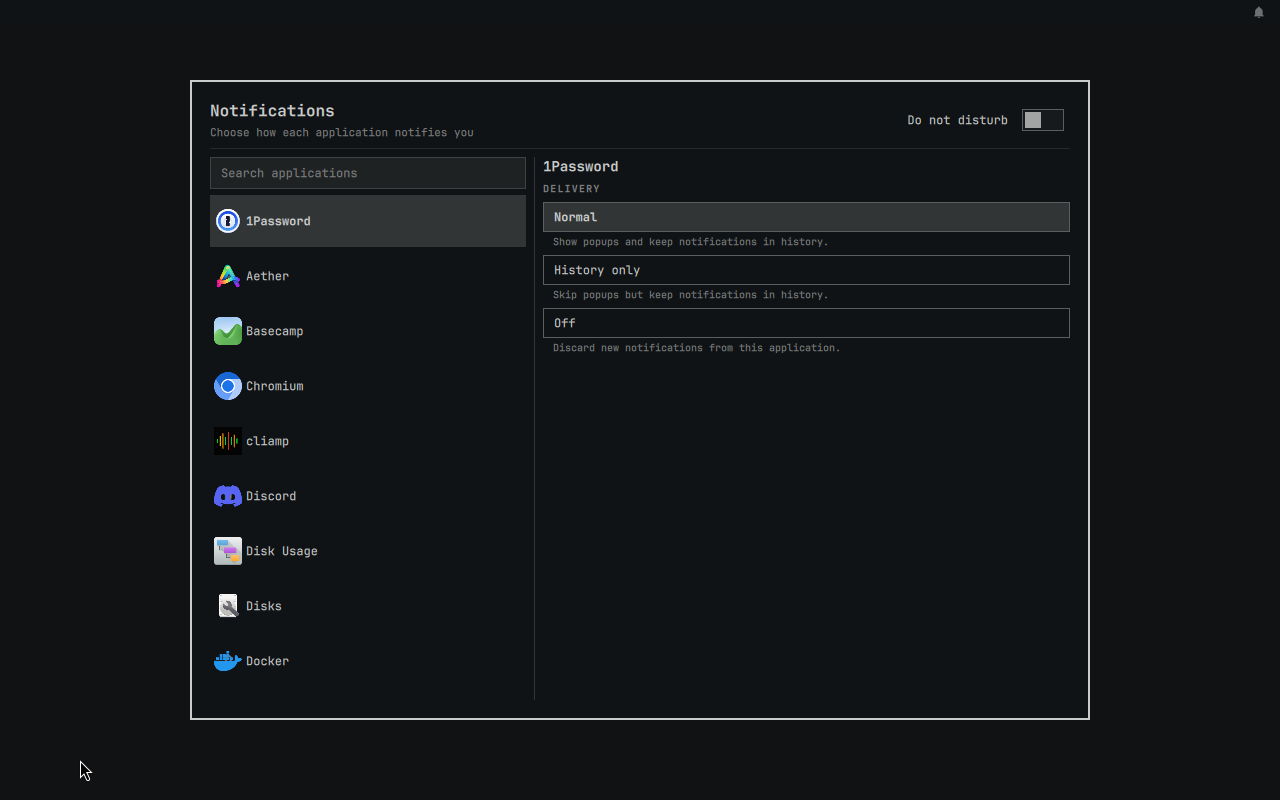
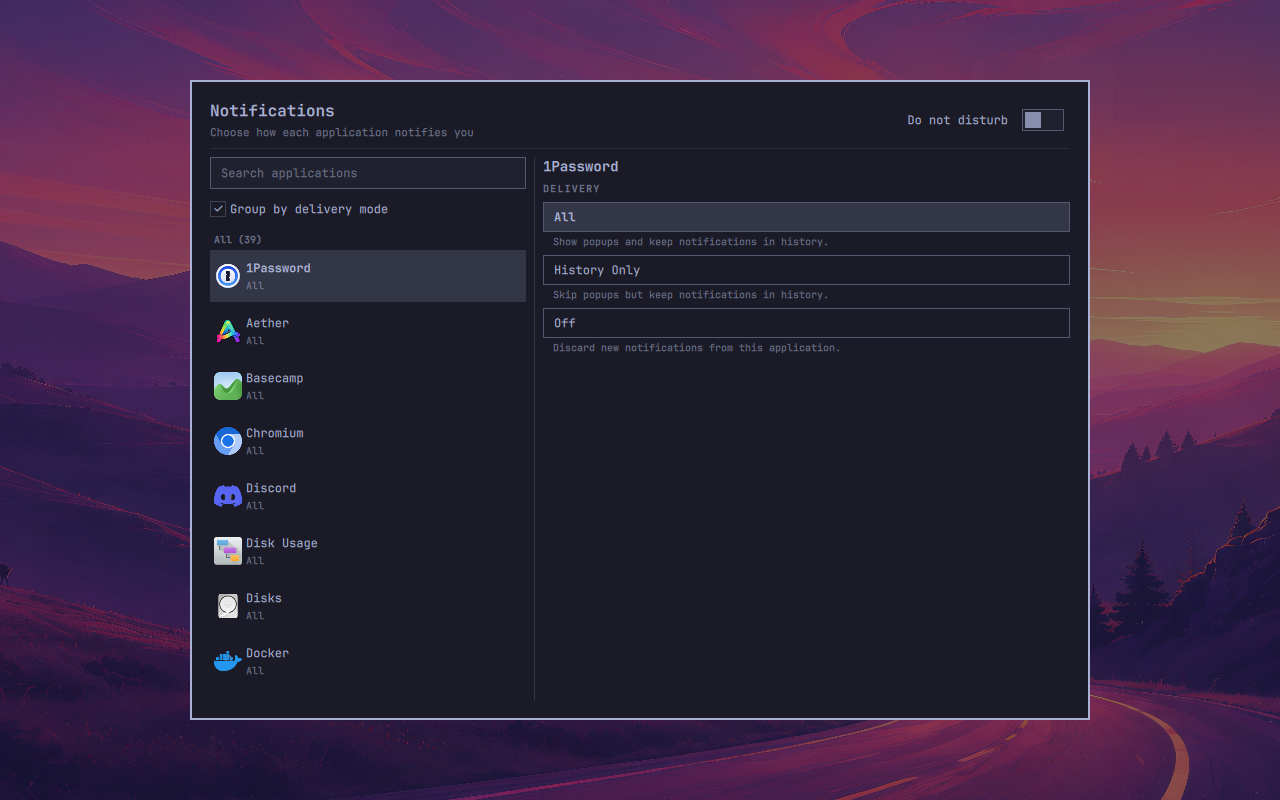
Add delivery-mode grouping and refresh notification controls preview

diff --git a/Panel.qml b/Panel.qml
@@ -22,6 +22,12 @@ Item {
   readonly property bool catalogLoaded: !!root.service && root.service.catalogLoaded === true
   readonly property bool settingsWritable: root.settingsLoaded && root.service.settingsWritable !== false
 
+  PersistentProperties {
+    id: viewOptions
+    reloadableId: "hotwheels-notification-controls-view"
+    property bool groupByMode: false
+  }
+
   readonly property color background: Color.menu.background
   readonly property color foreground: Color.menu.text
   readonly property color dimForeground: Util.alpha(foreground, 0.58)
@@ -32,15 +38,18 @@ Item {
   readonly property var applications: service && typeof service.applicationsList === "function" ? service.applicationsList() : []
   readonly property var filteredApplications: {
     var query = searchText.trim().toLowerCase()
-    if (!query) return applications
-
     var matches = []
     for (var i = 0; i < applications.length; i++) {
       var application = applications[i]
       var haystack = [application.label, application.app, application.desktopEntry, application.source, application.searchText].join(" ").toLowerCase()
-      if (haystack.indexOf(query) >= 0) matches.push(application)
+      if (!query || haystack.indexOf(query) >= 0) matches.push(application)
     }
-    return matches
+    var grouped = viewOptions.groupByMode
+    var modes = ["normal", "history", "off", "mixed"]
+    return matches.sort(function(a, b) {
+      if (grouped && a.mode !== b.mode) return modes.indexOf(a.mode) - modes.indexOf(b.mode)
+      return a.label.toLowerCase().localeCompare(b.label.toLowerCase()) || a.key.localeCompare(b.key)
+    })
   }
   readonly property var selectedApplication: {
     for (var i = 0; i < filteredApplications.length; i++)
@@ -54,7 +63,7 @@ Item {
     root.opened = true
     if (root.service) root.service.rebuildApplicationCatalog()
     root.searchText = ""
-    root.selectedKey = root.applications.length > 0 ? String(root.applications[0].key) : ""
+    root.ensureSelection()
     Qt.callLater(function() {
       if (root.opened) searchField.forceActiveFocus()
     })
@@ -77,8 +86,9 @@ Item {
       root.selectedKey = ""
       return
     }
-    if (!root.selectedApplication)
-      root.selectedKey = String(root.filteredApplications[0].key)
+    for (var i = 0; i < root.filteredApplications.length; i++)
+      if (String(root.filteredApplications[i].key) === root.selectedKey) return
+    root.selectedKey = String(root.filteredApplications[0].key)
   }
 
   function setMode(mode) {
@@ -104,8 +114,32 @@ Item {
     return ""
   }
 
-  onApplicationsChanged: ensureSelection()
-  onFilteredApplicationsChanged: ensureSelection()
+  function modeLabel(mode) {
+    switch (mode) {
+    case "history": return "History Only"
+    case "off": return "Off"
+    case "mixed": return "Mixed settings"
+    default: return "All"
+    }
+  }
+
+  function groupCount(mode) {
+    return filteredApplications.filter(function(application) { return application.mode === mode }).length
+  }
+
+  ListModel { id: applicationModel }
+
+  onFilteredApplicationsChanged: {
+    // Named model roles let ListView render delivery-mode section headers.
+    applicationModel.clear()
+    for (var i = 0; i < filteredApplications.length; i++)
+      applicationModel.append(filteredApplications[i])
+    ensureSelection()
+    Qt.callLater(function() {
+      if (applicationList.currentIndex >= 0)
+        applicationList.positionViewAtIndex(applicationList.currentIndex, ListView.Contain)
+    })
+  }
 
   PanelWindow {
     id: panel
@@ -266,6 +300,43 @@ Item {
                 onTextChanged: root.searchText = text
               }
 
+              CheckBox {
+                id: groupingCheckBox
+                Layout.fillWidth: true
+                text: "Group by delivery mode"
+                checked: viewOptions.groupByMode
+                onToggled: viewOptions.groupByMode = checked
+                spacing: Style.spacing.sm
+                padding: 0
+                implicitHeight: Style.spacing.controlHeight
+
+                indicator: BorderSurface {
+                  implicitWidth: Style.space(16)
+                  implicitHeight: Style.space(16)
+                  y: (groupingCheckBox.height - height) / 2
+                  color: "transparent"
+                  borderSpec: Border.controlSpec(groupingCheckBox.activeFocus ? "focus" : (groupingCheckBox.hovered ? "hover-cursor" : "normal"), root.foreground, Color.accent)
+
+                  Text {
+                    anchors.centerIn: parent
+                    text: "✓"
+                    visible: groupingCheckBox.checked
+                    color: root.foreground
+                    font.pixelSize: Style.font.body
+                  }
+                }
+
+                contentItem: Text {
+                  text: groupingCheckBox.text
+                  leftPadding: groupingCheckBox.indicator.width + groupingCheckBox.spacing
+                  color: root.foreground
+                  font.family: Style.font.menuFamily
+                  font.pixelSize: Style.font.body
+                  verticalAlignment: Text.AlignVCenter
+                  elide: Text.ElideRight
+                }
+              }
+
               ListView {
                 id: applicationList
                 Layout.fillWidth: true
@@ -273,7 +344,7 @@ Item {
                 clip: true
                 spacing: Style.spacing.xs
                 boundsBehavior: Flickable.StopAtBounds
-                model: root.filteredApplications
+                model: applicationModel
                 currentIndex: {
                   for (var i = 0; i < root.filteredApplications.length; i++)
                     if (String(root.filteredApplications[i].key) === root.selectedKey) return i
@@ -282,12 +353,31 @@ Item {
                 onCurrentIndexChanged: if (currentIndex >= 0) positionViewAtIndex(currentIndex, ListView.Contain)
                 ScrollBar.vertical: ScrollBar { policy: ScrollBar.AsNeeded }
 
+                section.property: viewOptions.groupByMode ? "mode" : ""
+                section.criteria: ViewSection.FullString
+                section.delegate: Text {
+                  id: groupHeader
+                  required property string section
+                  width: ListView.view.width
+                  topPadding: Style.spacing.sm
+                  bottomPadding: Style.spacing.xs
+                  leftPadding: Style.spacing.sm
+                  textFormat: Text.PlainText
+                  text: root.modeLabel(groupHeader.section) + " (" + root.groupCount(groupHeader.section) + ")"
+                  color: root.dimForeground
+                  font.family: Style.font.menuFamily
+                  font.pixelSize: Style.font.caption
+                  font.bold: true
+                  elide: Text.ElideRight
+                }
+
                 delegate: CursorSurface {
                   id: applicationRow
-                  required property var modelData
+                  required property var model
+                  readonly property var modelData: model
                   required property int index
                   readonly property bool chosen: String(modelData.key) === root.selectedKey
-                  readonly property string subtitle: root.applicationSubtitle(modelData)
+                  readonly property string subtitle: root.modeLabel(modelData.mode)
 
                   width: ListView.view.width
                   implicitHeight: Math.max(Style.space(52), rowContent.implicitHeight + Style.spacing.md)
@@ -458,8 +548,8 @@ Item {
 
               Repeater {
                 model: [
-                  { value: "normal", label: "Normal", description: "Show popups and keep notifications in history." },
-                  { value: "history", label: "History only", description: "Skip popups but keep notifications in history." },
+                  { value: "normal", label: "All", description: "Show popups and keep notifications in history." },
+                  { value: "history", label: "History Only", description: "Skip popups but keep notifications in history." },
                   { value: "off", label: "Off", description: "Discard new notifications from this application." }
                 ]
 

diff --git a/README.md b/README.md
@@ -4,8 +4,8 @@ Choose how each application notifies you in Omarchy.
 
 Notification Controls puts the apps from your application launcher in one searchable list, with their familiar names and icons. Select an app and choose how its notifications are delivered:
 
-- **Normal** — show popups and keep notification history.
-- **History only** — keep notifications in history without interrupting you.
+- **All** — show popups and keep notification history.
+- **History Only** — keep notifications in history without interrupting you.
 - **Off** — discard new notifications from the app.
 
 Installed web apps have their own controls. Related background helpers follow their app's setting without cluttering the list.
@@ -29,6 +29,8 @@ omarchy bar move hotwheels.notification-controls --before omarchy.tray
 ## Open notification settings
 
 **Left-click the bell** in the top bar to open settings. **Right-click the bell** to toggle Do Not Disturb. The bell changes to a muted icon when DND is on.
+
+Check **Group by delivery mode** to organize applications into All, History Only, and Off sections, with a count for each group. Names stay alphabetical within each group. Search works with grouping on or off, and each application shows its current delivery mode.
 
 Do Not Disturb silences normal notification popups across applications while retaining history.
 
